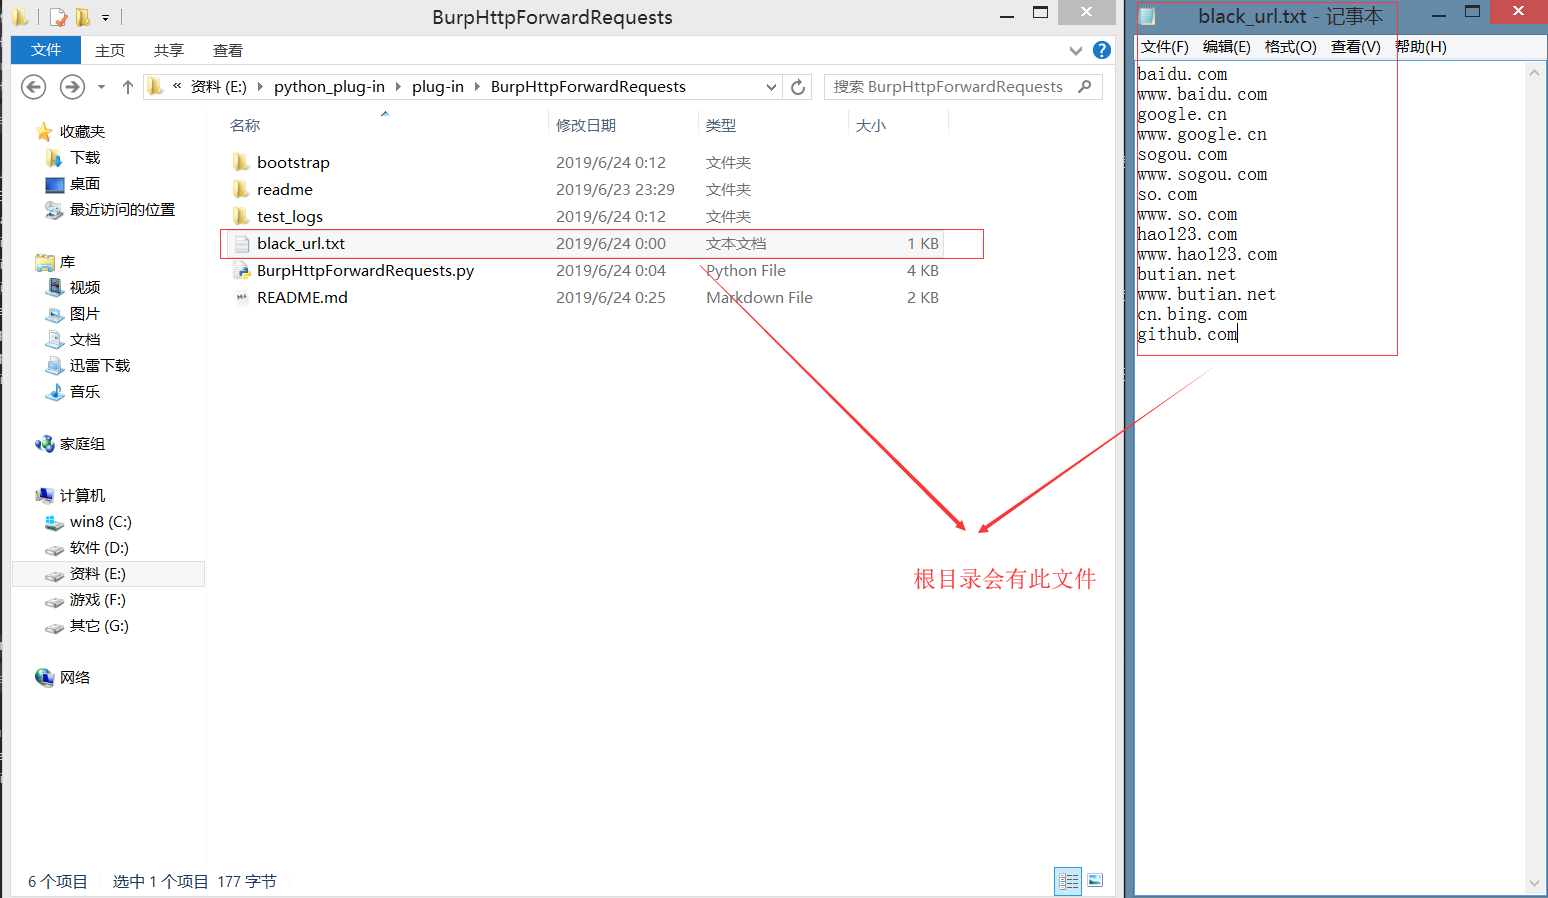
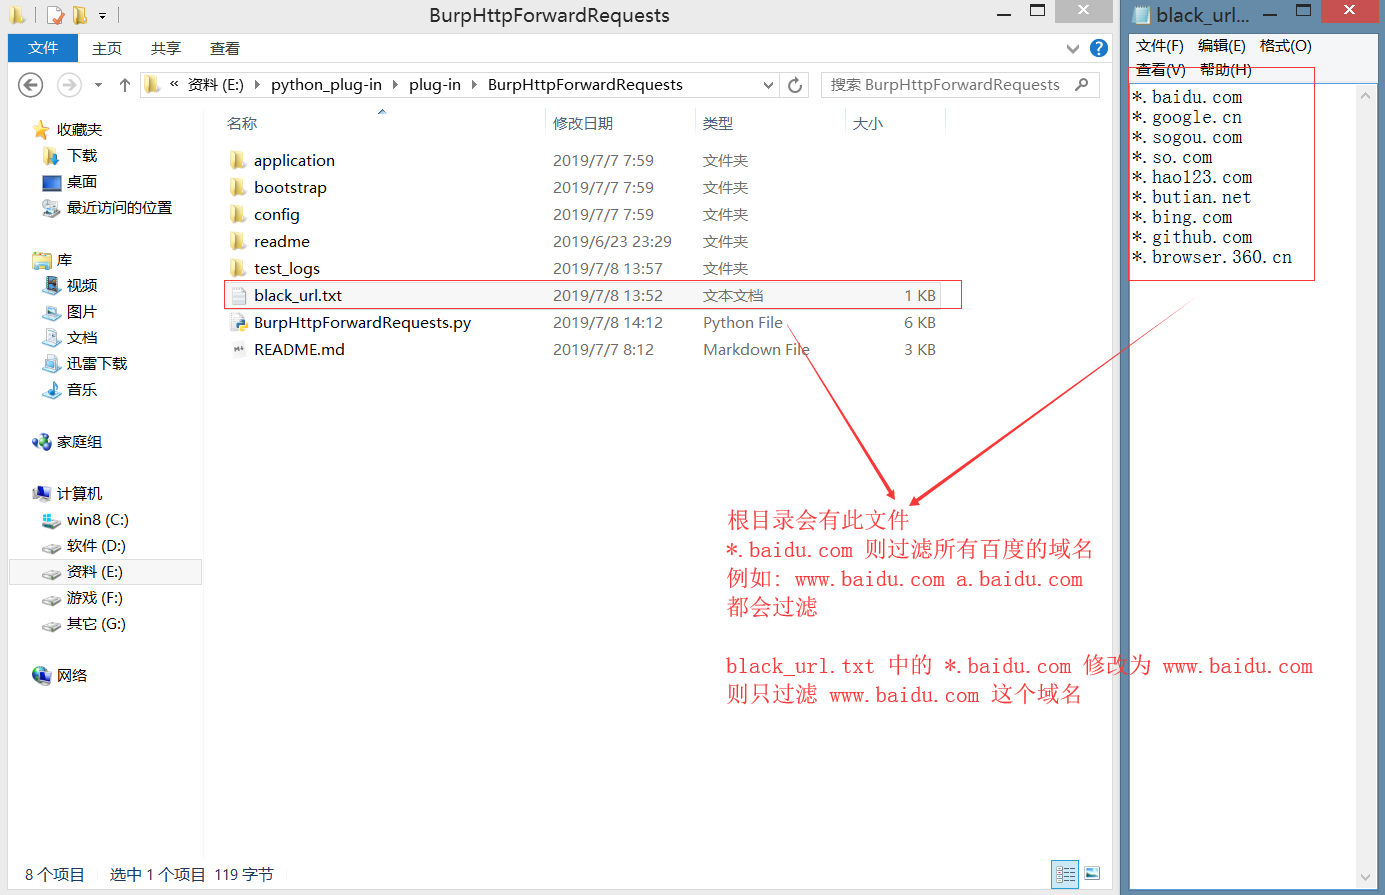
插件添加白名单域名请求转发支持

diff --git a/application/tag.py b/application/tag.py
@@ -14,7 +14,24 @@ from javax.swing import JPanel
 from javax.swing import JCheckBox
 from javax.swing import JTabbedPane
 
+from javax.swing import JButton
+from javax.swing import JTextArea
+from javax.swing import JTextField
+from javax.swing import JScrollPane
+from javax.swing.text import Utilities
+from javax.swing.text import DefaultHighlighter
+from java.awt.event import MouseEvent
+from java.awt.event import MouseAdapter
+
+import os
+import sys
 import config.forwardRequests as ForwardRequestsConfig
+
+reload(sys)
+sys.setdefaultencoding('utf8')
+
+white_list_names = [
+]
 
 class tag(ITab):
     def __init__(self, callbacks, name):
@@ -40,7 +57,8 @@ class tag(ITab):
 
         self.settings = JPanel(GridBagLayout())
         self.forward_requests_settings = JPanel(GridBagLayout())
-        
+        self.white_list_domain_settings = JPanel(GridBagLayout())
+
         c = GridBagConstraints()
 
         # 界面选项卡1-标签加载
@@ -51,9 +69,13 @@ class tag(ITab):
         self.tag_3(c)
         self.tag_4(c)
 
+        # 界面选项卡3-标签加载
+        self.tag_5(c)
+
         # 添加选项卡
-        self.tabs.addTab(u'基本配置', self.settings)
+        self.tabs.addTab(u'基本设置', self.settings)
         self.tabs.addTab(u'http请求转发设置', self.forward_requests_settings)
+        self.tabs.addTab(u'白名单域名设置', self.white_list_domain_settings)
 
         self._callbacks.customizeUiComponent(self.tabs)
         self._callbacks.addSuiteTab(self)
@@ -152,4 +174,135 @@ class tag(ITab):
             white_list_module.append(64)
 
         return white_list_module
+
+    # 选项卡3-标签1-ui
+    def tag_5(self, c):
+        # 输入框-标题
+        lblParams = JLabel(u'请填写域名:')
+        self.setFontBold(lblParams)
+        lblParams.setForeground(Color(0, 0, 153))
+        c.gridx = 0
+        c.gridy = 0
+        c.insets = Insets(5, 5, 5, 5)
+        c.fill = GridBagConstraints.NONE
+        c.anchor = GridBagConstraints.FIRST_LINE_END
+        self.white_list_domain_settings.add(lblParams, c)
+
+        # 输入框
+        self.white_list_text_field = JTextField()
+        c.fill = GridBagConstraints.BOTH
+        c.gridx = 1
+        c.gridy = 0
+        self.white_list_domain_settings.add(self.white_list_text_field, c)
+
+        lblParamsNote = JLabel(u"白名单域名列表")
+        self.setFontItalic(lblParamsNote)
+        c.fill = GridBagConstraints.NONE
+        c.gridx = 0
+        c.gridy = 1
+        self.white_list_domain_settings.add(lblParamsNote, c)
+
+        # 添加 文本框
+        self.white_list_text_area = JTextArea()
+        self.white_list_text_area.setColumns(20)
+        self.white_list_text_area.setRows(10)
+        self.white_list_text_area.setEditable(False)
+        c.fill = GridBagConstraints.BOTH
+        self.white_list_mouse_listener = TextAreaMouseListener(self.white_list_text_area)
+        self.white_list_text_area.addMouseListener(self.white_list_mouse_listener)
+
+        # 向文本框添加数据
+        for name in white_list_names:
+            self.white_list_text_area.append(name + '\r\n' + os.linesep)
+        c.gridx = 1
+        c.gridy = 1
+        sp = JScrollPane(self.white_list_text_area)
+        self.white_list_domain_settings.add(sp, c)
+
+        # 添加 删除 重置
+        buttonsPanel = JPanel(GridBagLayout())
+        _c = GridBagConstraints()
+        _c.insets = Insets(3, 3, 3, 3)
+        _c.gridx = 0
+        _c.fill = GridBagConstraints.BOTH
+        _c.weightx = 1
+        _c.gridwidth = 1
+
+        handlers = ButtonHandlers(self.white_list_text_field, self.white_list_text_area, self.white_list_mouse_listener, white_list_names)
+        
+        # 添加按钮
+        self.white_list_add_button = JButton(u'添加', actionPerformed=handlers.handler_add)
+        _c.gridy = 1
+        buttonsPanel.add(self.white_list_add_button, _c)
+
+        # 删除按钮
+        self.white_list_rm_button = JButton(u'删除', actionPerformed=handlers.handler_rm)
+        _c.gridy = 2
+        buttonsPanel.add(self.white_list_rm_button, _c)
+
+        # 重置按钮
+        self.white_list_restore_button = JButton(u'重置', actionPerformed=handlers.handler_restore)
+        _c.gridy = 3
+        buttonsPanel.add(self.white_list_restore_button, _c)
+
+        c.gridx = 2
+        c.gridy = 1
+        c.fill = GridBagConstraints.NONE
+        self.white_list_domain_settings.add(buttonsPanel, c)
+
+    # 获取白名单域名列表
+    def getWhiteList(self):
+        return self.text_area_to_list(self.white_list_text_area)
+    
+    # 获取指定text数据
+    def text_area_to_list(self, text_area):
+        l = text_area.getText().strip().split('\n')
+        return l if l != [''] else []
+
+class TextAreaMouseListener(MouseAdapter):
+    def __init__(self, text_area):
+        self.text_area = text_area
+
+    def getSelected(self):
+        return (self.start, self.value)
+
+    def mousePressed(self, event):
+        if event.getButton() != MouseEvent.BUTTON1:
+            return
+
+        offset = self.text_area.viewToModel(event.getPoint())
+        rowStart = Utilities.getRowStart(self.text_area, offset)
+        rowEnd = Utilities.getRowEnd(self.text_area, offset)
+        self.start = rowStart
+        self.value = self.text_area.getText()[rowStart: rowEnd]
+
+        self.text_area.getHighlighter().removeAllHighlights()
+        painter = DefaultHighlighter.DefaultHighlightPainter(Color.LIGHT_GRAY)
+        self.text_area.getHighlighter().addHighlight(rowStart, rowEnd, painter)
+
+class ButtonHandlers:
+    def __init__(self, text_field, text_area, mouse_listener, default_values):
+        self.text_field = text_field
+        self.text_area = text_area
+        self.mouse_listener = mouse_listener
+        self.default_values = default_values
+
+    def handler_add(self, event):
+        name = self.text_field.getText()
+        self.text_area.append(name + '\r\n' + os.linesep)
+        self.text_field.setText('')
+
+    def handler_rm(self, event):
+        self.text_field.setText('')
+        start, value = self.mouse_listener.getSelected()
+        end = start + len(value)
+        text_area = self.text_area.getText()
+        text_area = (text_area[:start] + text_area[end:]).strip('\n').replace('\n\n', '\n')
+        self.text_area.setText(text_area)
+
+    def handler_restore(self, event):
+        self.text_field.setText('')
+        self.text_area.setText('')
+        for name in self.default_values:
+            self.text_area.append(name + '\r\n' + os.linesep)
 

diff --git a/BurpHttpForwardRequests.py b/BurpHttpForwardRequests.py
@@ -13,7 +13,7 @@ reload(sys)
 sys.setdefaultencoding('utf8')
 
 NAME = u'http请求转发插件'
-VERSION = '1.0.2'
+VERSION = '1.0.3'
 
 MODULE = {4: 'proxy', 64: 'repeater'}
 
@@ -65,6 +65,21 @@ class BurpExtender(IBurpExtender, IHttpListener):
                 black_url = black_url.replace('*.', '')
                 if host.find(black_url) >= 0:
                     return
+
+        # 判断是否处于白名单模式
+        if self.tags.getWhiteList():
+            is_white_url = False
+            for white_url in self.tags.getWhiteList():
+                if white_url == host:
+                    is_white_url = True
+                    break
+                elif white_url[0] == '*' and white_url[1] == '.':
+                    white_url = white_url.replace('*.', '')
+                    if host.find(white_url) >= 0:
+                        is_white_url = True
+                        break
+            if is_white_url == False:
+                return
 
         # 获取请求的信息
         request = messageInfo.getRequest()

diff --git a/README.md b/README.md
@@ -50,14 +50,32 @@ Jython环境安装包: http://search.maven.org/remotecontent?filepath=org/python
 
 在根目录你可以看到“black_url.txt”文件,打开此文件,一行一域名添加即可
 
+过滤某个域名: www.domain.com
+过滤某个域名的全部子域名: *.domain.com
+
 每个在“black_url.txt”文件里面的url此插件都不会进行转发
 
 ![](./readme/images/4.png)
+
+# Url白名单添加
+
+白名单里面如果有数据,那么此插件就只会转发白名单里面的域名请求
+
+注意: 如果黑名单与白名单的域名冲突的话,那么黑名单的执行优先级更高!!!!!
+注意: 如果黑名单与白名单的域名冲突的话,那么黑名单的执行优先级更高!!!!!
+注意: 如果黑名单与白名单的域名冲突的话,那么黑名单的执行优先级更高!!!!!
+
+![](./readme/images/11.png)
+只转发某个域名: www.domain.com
+只转发某个域名的全部子域名: *.domain.com
+
+注意: 域名不需要填写 http:// 或是 https://
 
 # Tag面板配置项
 
 ![](./readme/images/5.png)
 ![](./readme/images/10.png)
+![](./readme/images/11.png)
 
 # Url调试功能添加
 
